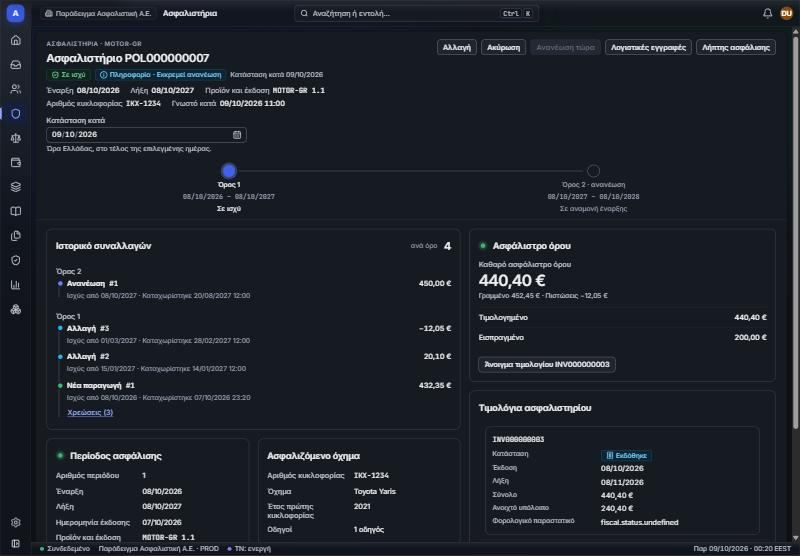
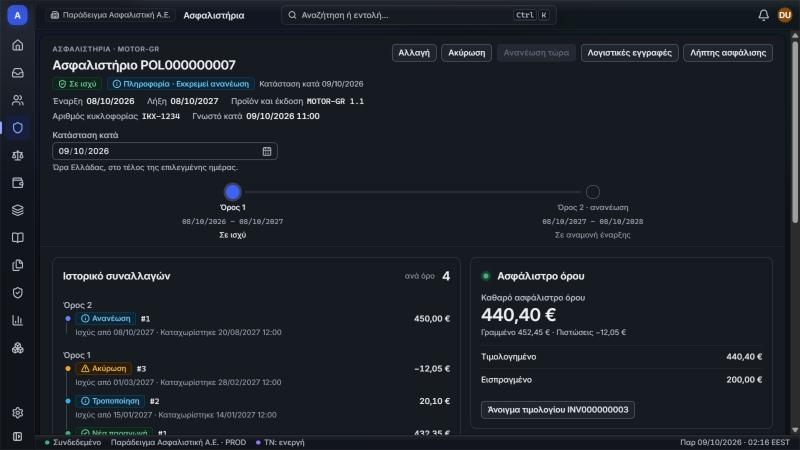
SL3-UI-POL-FILE: kind pills show only the kind; refresh screenshots

diff --git a/web/src/modules/policy/file/policyFile.test.tsx b/web/src/modules/policy/file/policyFile.test.tsx
@@ -221,10 +221,10 @@ describe('Policy file (SL3-UI-POL-FILE)', () => {
     const term1List = await within(groups).findByRole('list', { name: 'Συναλλαγές όρου 1' });
     const rows = within(term1List).getAllByRole('listitem');
     expect(rows.map((r) => /#(\d)/.exec(r.textContent)?.[1])).toEqual(['3', '2', '1']);
-    expect(within(nth(rows, 0)).getByText(/Αλλαγή/)).toBeInTheDocument();
-    expect(within(nth(rows, 2)).getByText(/Νέα παραγωγή/)).toBeInTheDocument();
+    expect(within(nth(rows, 0)).getByText('Τροποποίηση')).toBeInTheDocument();
+    expect(within(nth(rows, 2)).getByText('Νέα παραγωγή')).toBeInTheDocument();
     const term2List = within(groups).getByRole('list', { name: 'Συναλλαγές όρου 2' });
-    expect(within(term2List).getByText(/Ανανέωση/)).toBeInTheDocument();
+    expect(within(term2List).getByText('Ανανέωση')).toBeInTheDocument();
 
     // Term premium card in BigInt minor units: written 452,45 (432,35 + 20,10), credits -12,05, net 440,40.
     const premium = screen.getByRole('region', { name: 'Ασφάλιστρο όρου' });
@@ -357,7 +357,7 @@ describe('Policy file (SL3-UI-POL-FILE)', () => {
     expect(
       (await screen.findAllByText(/Δεν έχετε δικαίωμα να δείτε το πλήρες ιστορικό/)).length,
     ).toBeGreaterThan(0);
-    expect((await screen.findAllByText(/Νέα παραγωγή/)).length).toBeGreaterThan(0);
+    expect((await screen.findAllByText('Νέα παραγωγή')).length).toBeGreaterThan(0);
   });
 
   it('shows the loading state, then a not-found state', async () => {
@@ -425,7 +425,7 @@ describe('Policy file (SL3-UI-POL-FILE)', () => {
     expect(await screen.findByRole('list', { name: 'Policy terms' })).toBeInTheDocument();
     expect(screen.getByRole('button', { name: 'Renew now' })).toBeInTheDocument();
     const groups = await screen.findByRole('list', { name: 'Transactions by term' });
-    expect(await within(groups).findAllByText(/Change/)).not.toHaveLength(0);
+    expect(await within(groups).findAllByText('Change')).not.toHaveLength(0);
     expect(screen.getByText('As known at')).toBeInTheDocument();
   });
 

diff --git a/web/src/modules/policy/policy.test.tsx b/web/src/modules/policy/policy.test.tsx
@@ -53,7 +53,7 @@ describe('PolicyViewPage', () => {
 
     // The transaction history (the term timeline is not mocked here, so it falls back to the policy's own transactions).
     const history = await screen.findByRole('list', { name: 'Συναλλαγές όρου 1' });
-    expect(within(history).getByText(/Νέα παραγωγή/)).toBeInTheDocument();
+    expect(within(history).getByText('Νέα παραγωγή')).toBeInTheDocument();
     expect(within(history).getByText('432,35 €')).toBeInTheDocument();
     const invoices = await screen.findByRole('grid', { name: 'Τιμολόγια ασφαλιστηρίου' });
     expect(within(invoices).getByText('INV000000003')).toBeInTheDocument();

diff --git a/web/src/modules/policy/file/TransactionHistory.tsx b/web/src/modules/policy/file/TransactionHistory.tsx
@@ -109,7 +109,7 @@ function HistoryRow({
         <span className={styles.eventText}>
           <StatusPill
             semantic={semanticOf[kind]}
-            subLabel={t(`file.kind.${kind}`)}
+            text={t(`file.kind.${kind}`)}
             announceChanges={false}
           />
           <span className="ds-mono">{`#${String(row.sequence)}`}</span>
